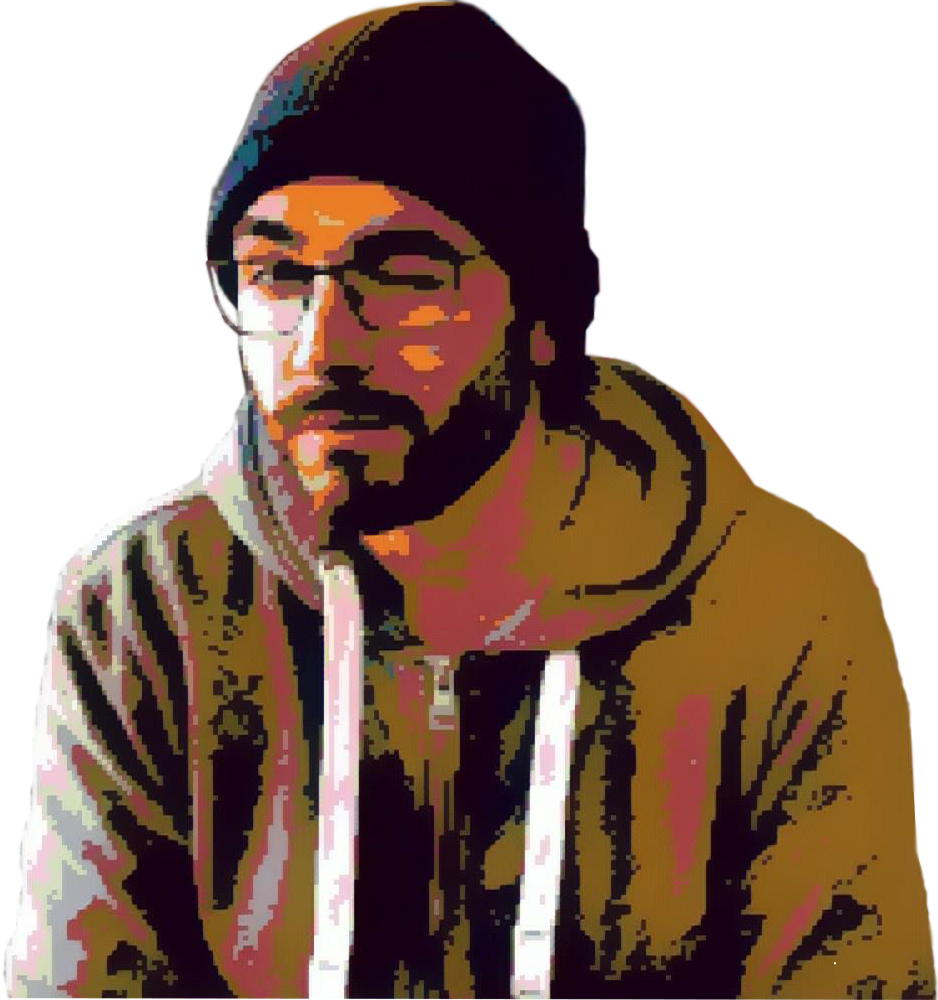
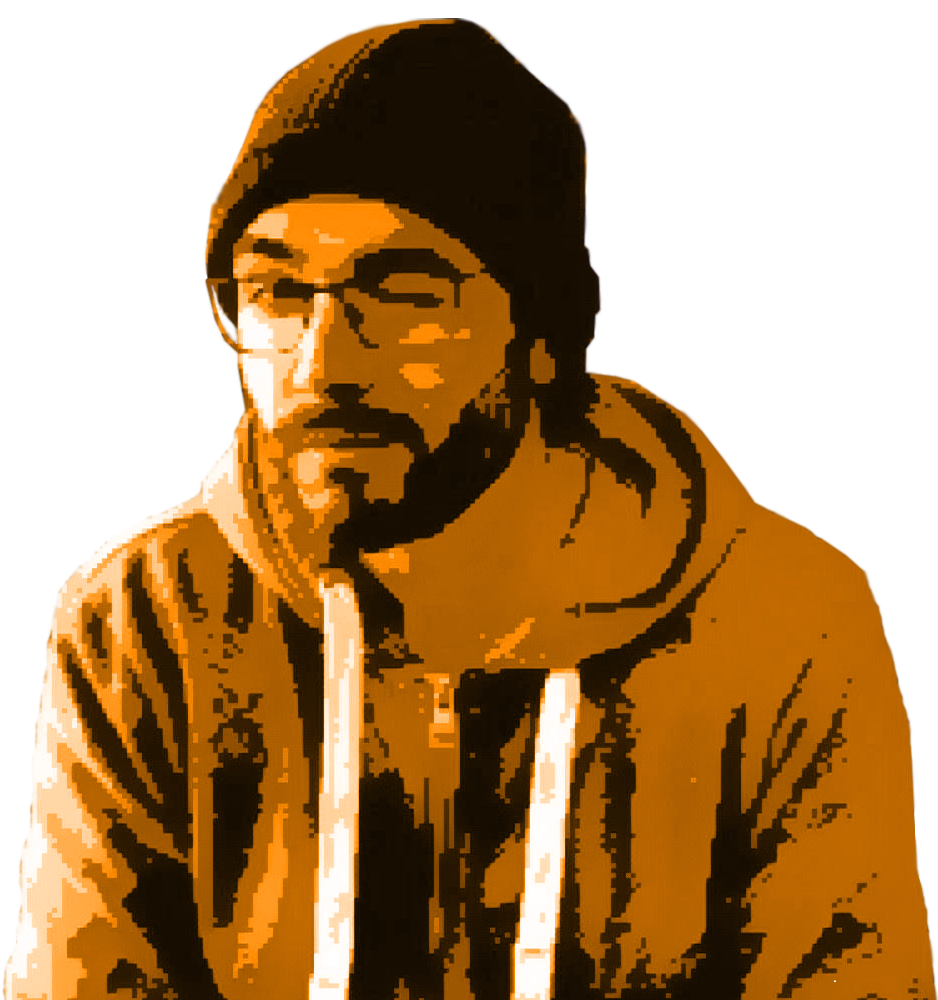
colors to orange

diff --git a/src/components/layout.js b/src/components/layout.js
@@ -11,17 +11,17 @@ export default props =>
     <Header />
     <PageTransition
       defaultStyle={{
-        transition: 'left 250ms cubic-bezier(0.47, 0, 0.75, 0.72)',
-        left: '100%',
+        transition: 'opacity 300ms cubic-bezier(0.47, 0, 0.75, 0.72)',
+        opacity: '0',
         position: 'absolute',
         width: '100%',
       }}
       transitionStyles={{
-        entering: { left: '0%' },
-        entered: { left: '0%' },
-        exiting: { left: '0%' },
+        entering: { opacity: '1' },
+        entered: { opacity: '1' },
+        exiting: { opacity: '0' },
       }}
-      transitionTime={200}
+      transitionTime={300}
     >
       <section className="page-content">
         <h1 className="content-h1">{props.page}</h1>

diff --git a/src/styles/components/nav.module.scss b/src/styles/components/nav.module.scss
@@ -1,7 +1,7 @@
 @import '../colors.scss';
 
 .active-nav-item {
-  background: linear-gradient(90deg, $cigla 20%, transparent 90%);
+  background: linear-gradient(90deg, $narandzasta 20%, transparent 90%);
 }
 
 @media only screen and (min-width: 950px){

diff --git a/src/styles/components/nav.scss b/src/styles/components/nav.scss
@@ -21,7 +21,7 @@
     text-shadow: 1px 1px 4px $crna;
     transition: box-shadow 200ms;
     &:hover{
-      box-shadow: inset 0 0 10px $bela;
+      box-shadow: inset 0 0 5px $narandzasta;
     }
   }
   transition: transform 300ms;

diff --git a/src/styles/colors.scss b/src/styles/colors.scss
@@ -1,10 +1,7 @@
 $bela: #fdfffe;
 $crna: #160015;
 $siva: #a8a7ac;
-$oker: #93621d;
 $narandzasta: #ea7e24;
-$lila: #f3c8dd;
-$cigla: #a53e3f;
 $plava: #2d517a;
 
 //margina sadrzaja na ekranima preko X sirine
